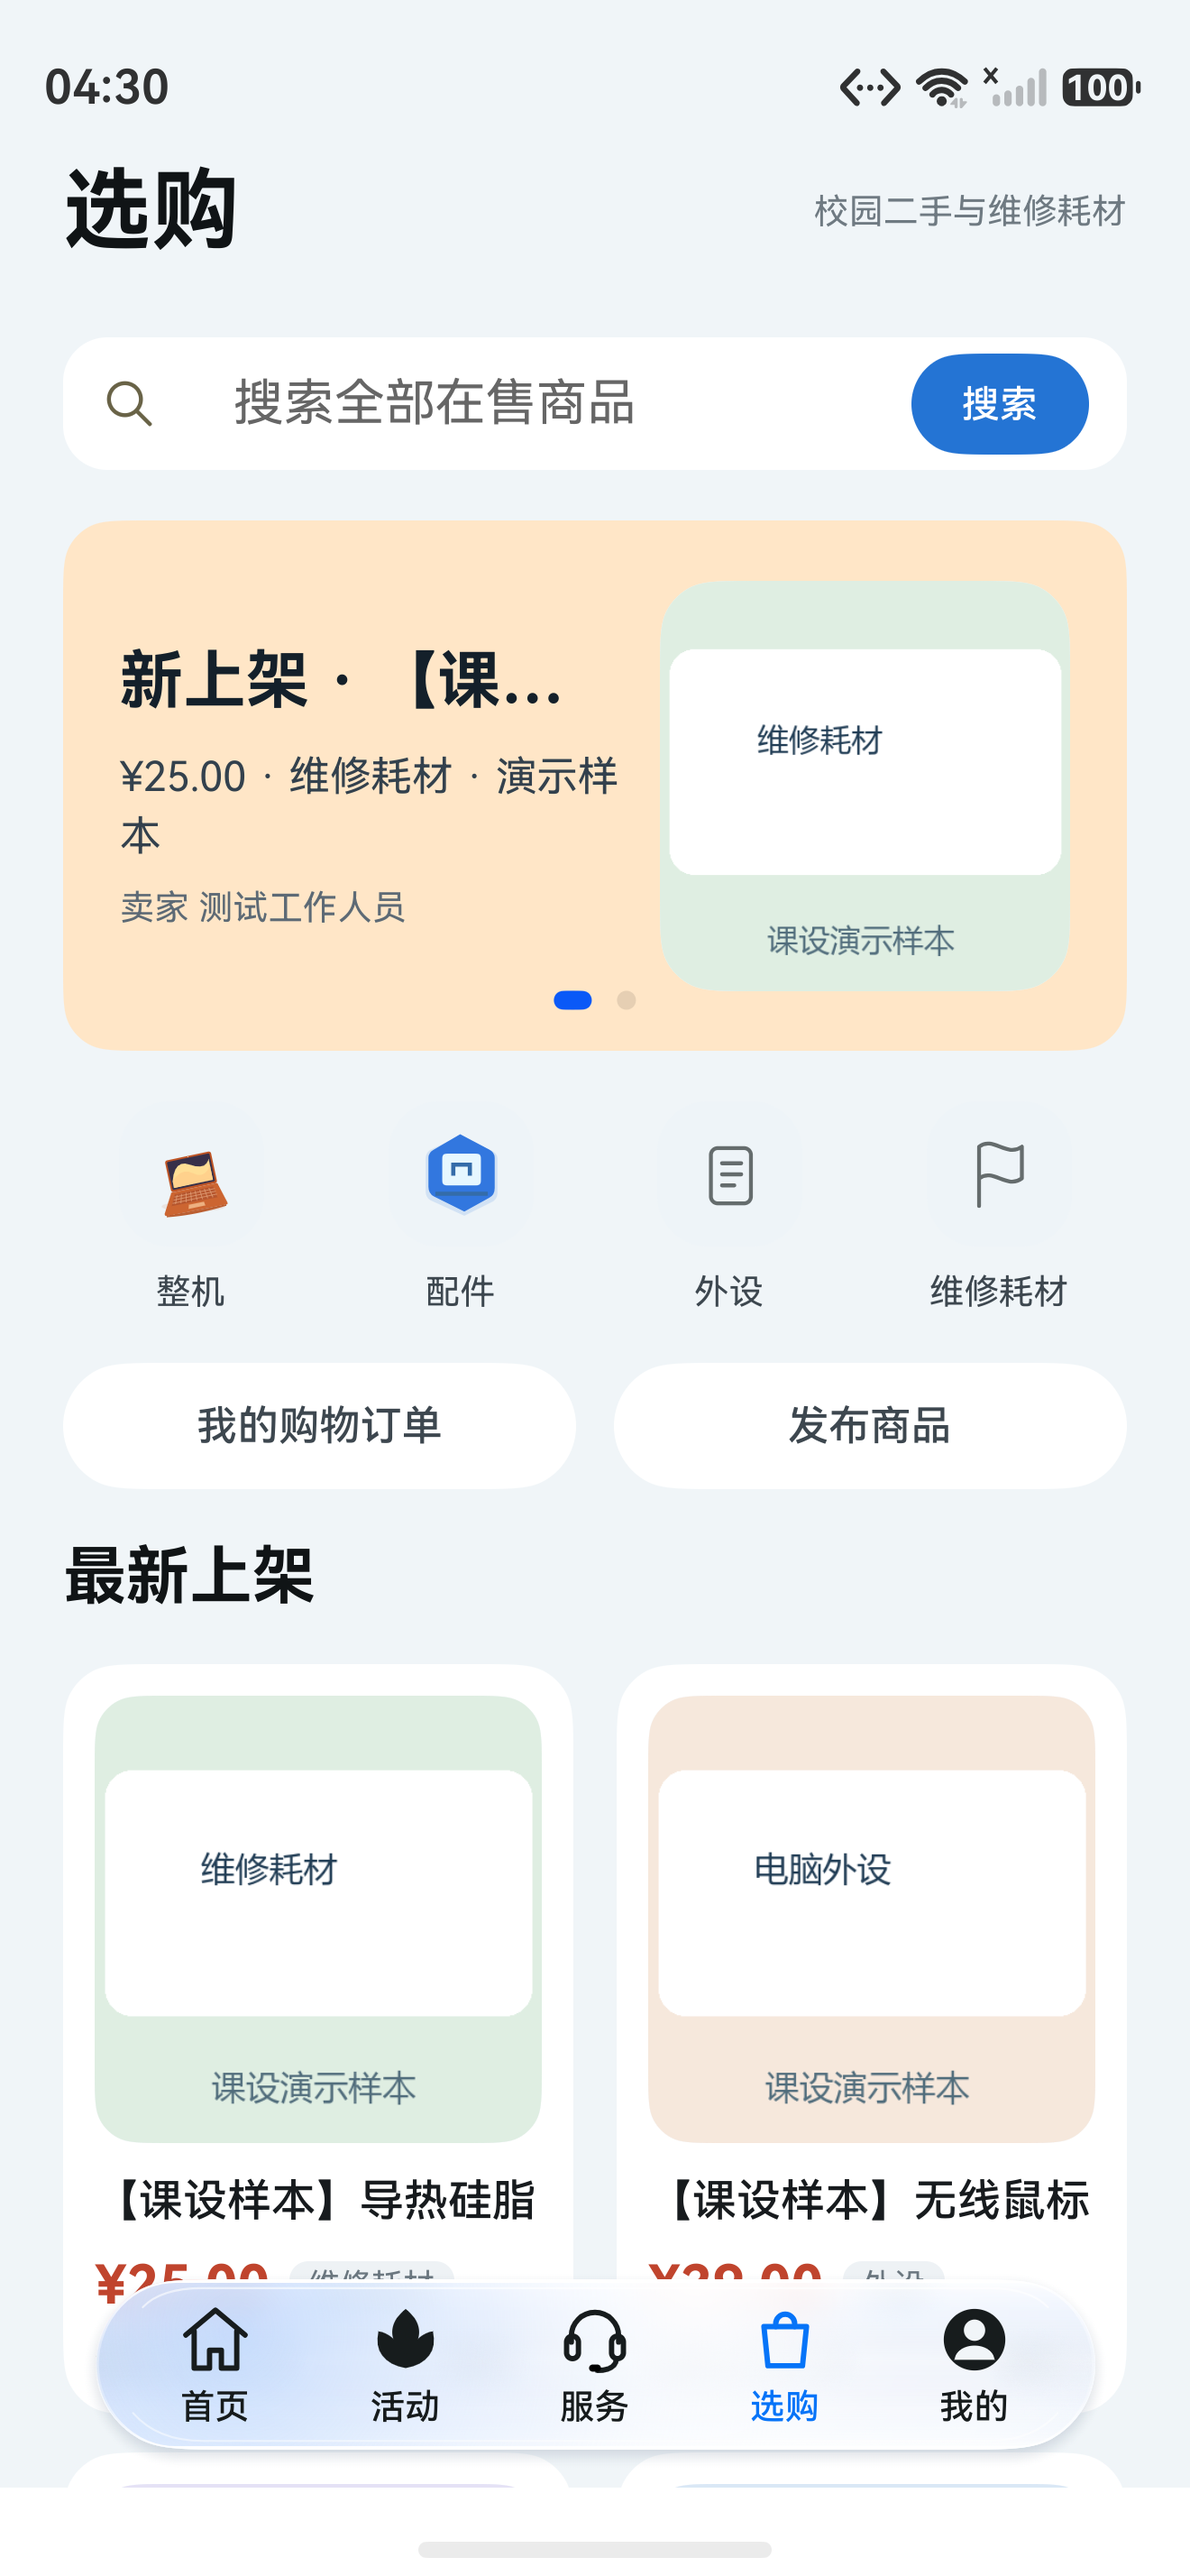
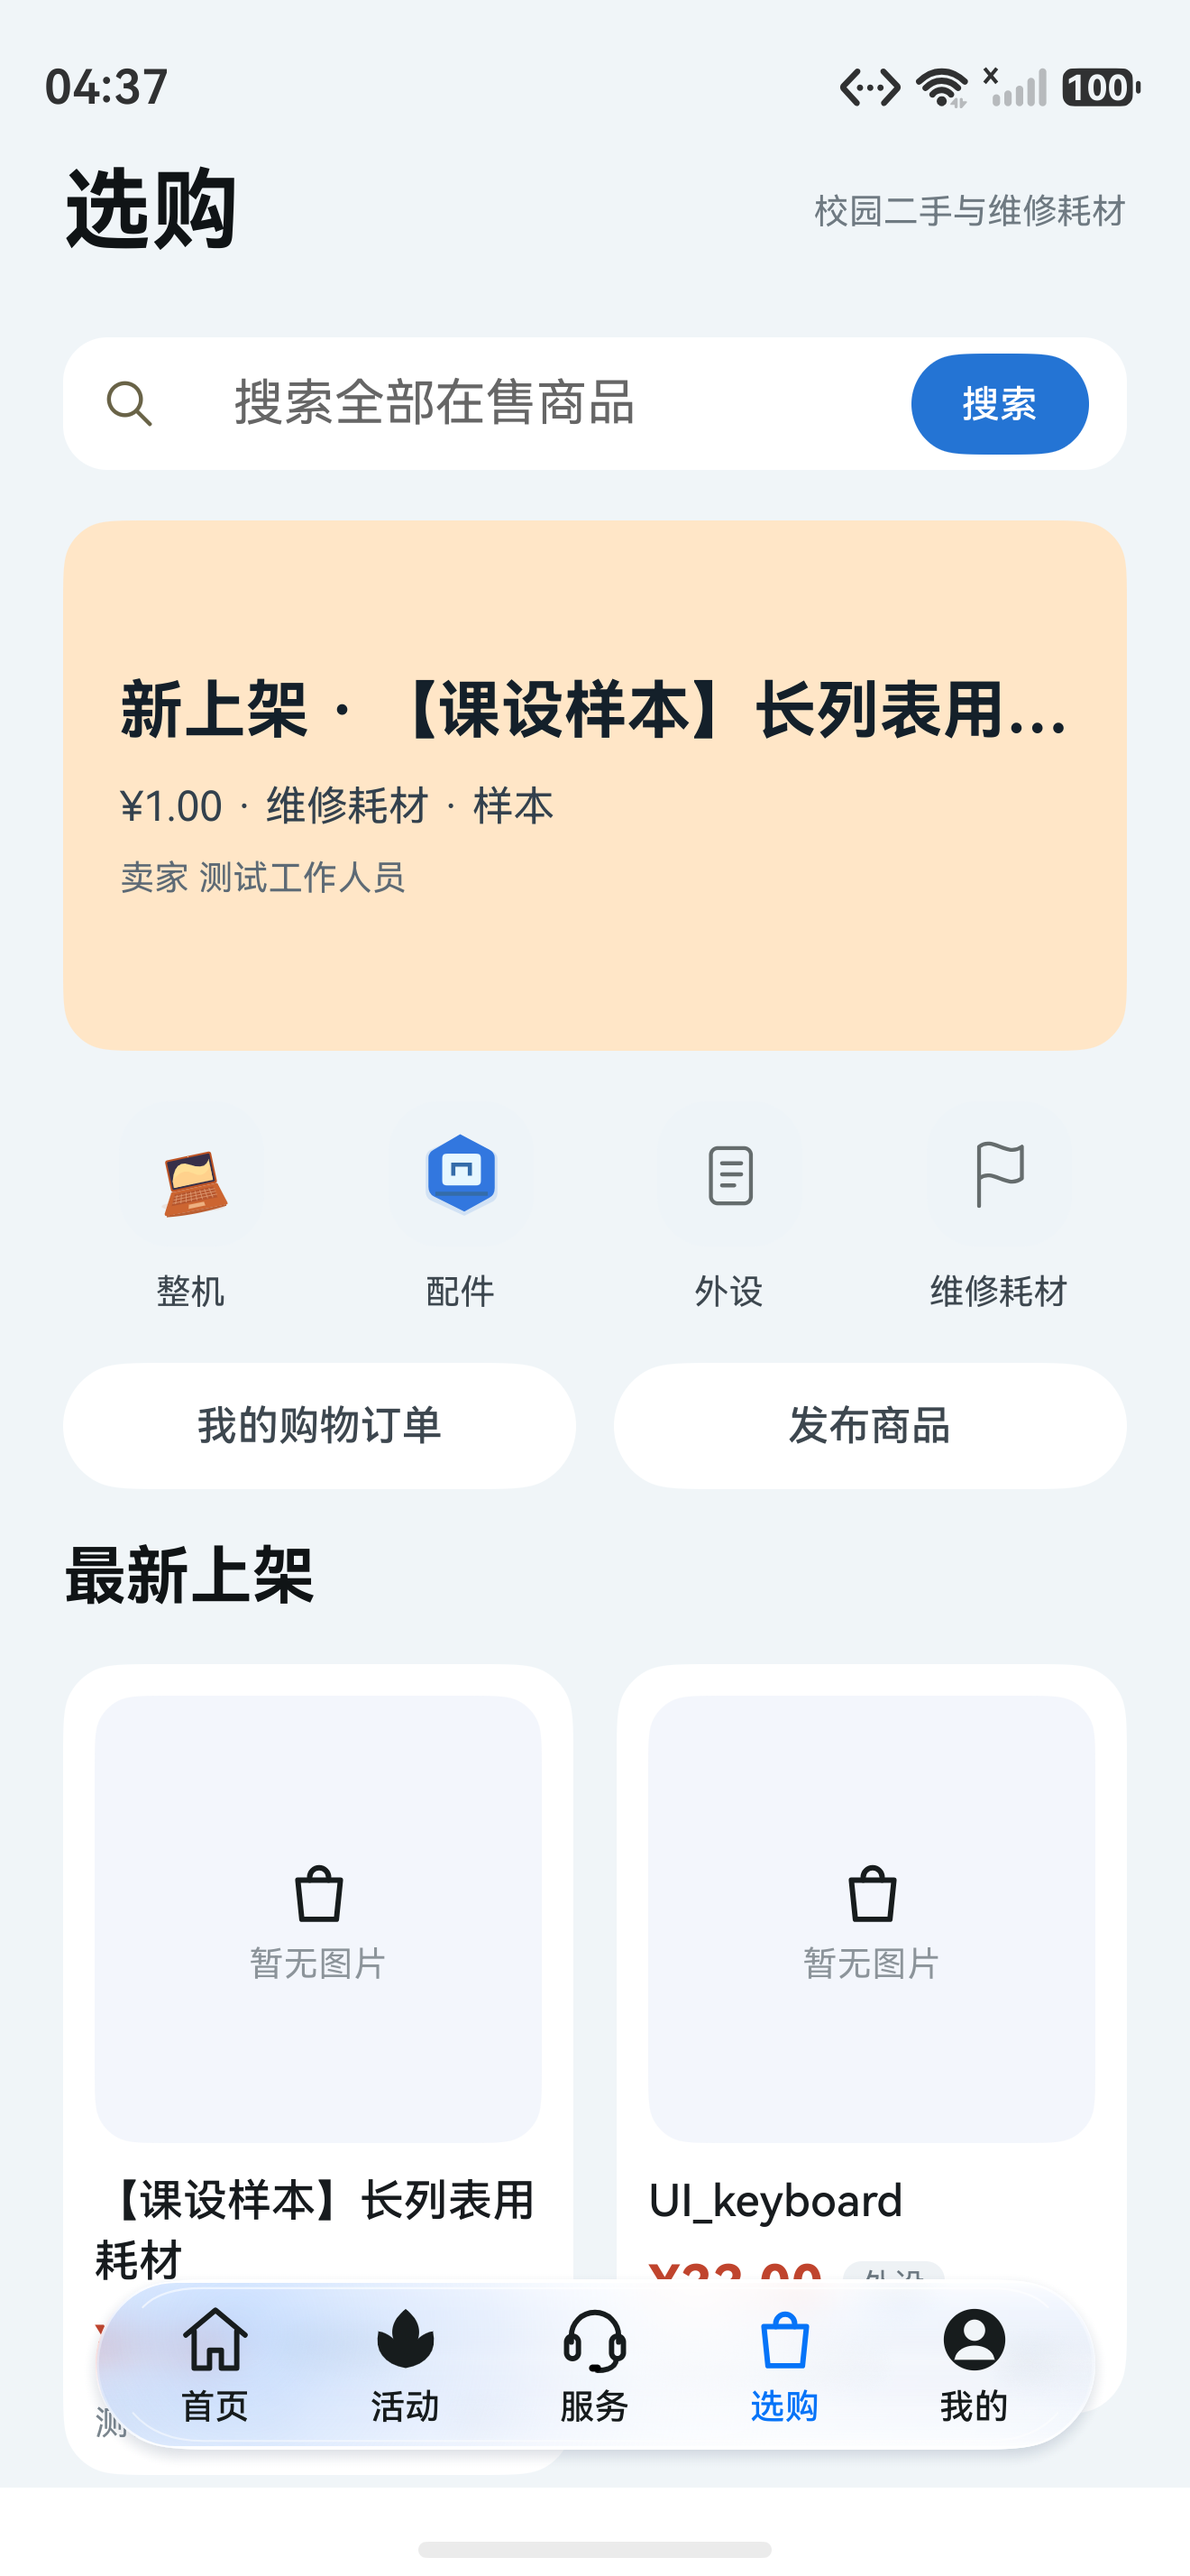
fix(shopping): 同步搜索结果与商品横幅

diff --git a/docs/verification/issue-101/README.md b/docs/verification/issue-101/README.md
@@ -10,6 +10,6 @@
 | 商品详情 | [截图](before-detail.png) | [截图](after-detail.png) |
 | 下单确认 | [历史截图（#84）](../issue-84/order-confirm-sheet.jpeg) | [截图](after-buy.png) |
 
-模拟器上通过页面发布外设并显示商品详情：[截图](ui-published.png)；使用客户账号通过页面下单后看到待取货。四类入口分别筛选出对应商品。本机接口另走通工作人员发布、客户下单、取消回补、再次下单、卖家完成、客户查看；4 类真实接口筛选通过。
+模拟器上通过页面发布外设并显示商品详情：[截图](ui-published.png)；使用客户账号通过页面下单后看到待取货。四类入口分别筛选出对应商品，搜索 UI_keyboard 后横幅和列表同步显示该商品。本机接口另走通工作人员发布、客户下单、取消回补、再次下单、卖家完成、客户查看；4 类真实接口筛选通过。
 
 `pnpm lint`、651 项单测、HAP 构建通过；真实接口与模拟器使用本机数据。订单、商品和商品图片记录仅在独立演示库 `pchospital_exp_demo20261125` 清理重建；其他业务数据保留。模拟器订单列表创建 21 笔课设样本并点击“加载更多”，可看到后续订单：[截图](after-long-orders.png)。系统相册选图和卖家页面完成订单尚待设备操作验证。商品图为标注的课设示意图。商品详情修改前后使用不同商品；下单确认修改前采用 #84 历史截图。
